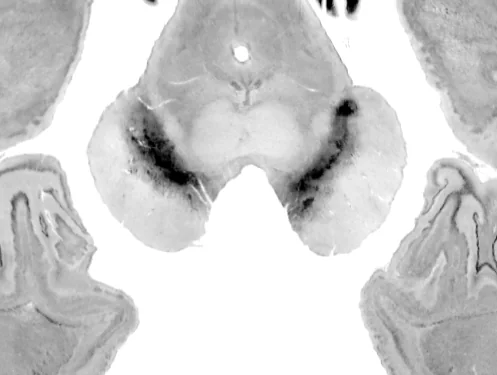
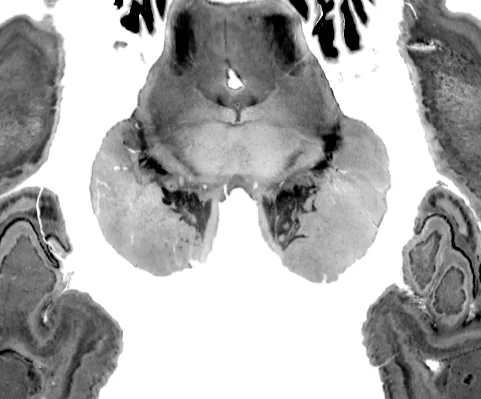
Kesimlar: o'rta miya tekisliklari (O1-O3) meshlarga moslab tuzatildi - nomidagi tuzilmalar endi kesiladi
Nima:
- O1 z -17 -> -19, O2 -9 -> -13, O3 -2 -> -8; lokator chiziqlari shunga mos surildi.
- O'rta miya kesim qatlamlariga Julich qo'shildi: qora moddaning zich va
  to'rsimon qismlari (SNc, SNr) endi kesimda bor va sxema raqamini oladi.
- Uch real kesim (BigBrain) yangi tekisliklarda qayta kesildi.

Nega:
- Balandliklar darslik rasmidan olingan edi, lekin bu atlas geometriyasida
  tektum pastroq yotadi. O2 "yuqori do'nglik va qizil yadro" darajasi deb
  atalgani holda ikkalasini ham kesmas, gipotalamus va talamus orqali o'tardi;
  O3 da 14 bog'langan tuzilmadan 1 tasi kesilardi.
- Yangi qiymatlar o'lchab tanlandi: har z uchun bog'langan tuzilmalarning
  kesim yuzasi sanaldi (O2 da -13: yuqori do'nglik 37, qizil yadro 29,
  medial tizzasimon tana 31 mm2; O3 da -8: orqa komissura 59, epifiz 41 mm2).

Natija (real kesimdagi nishonlar): O1 9 -> 11, O2 4 -> 15, O3 2 -> 12.

Tekshirildi: O2 va O3 Real ko'rinishda suratda, O2 3D kesimi, tsc + build.
Tekshirilmadi: O1 surati (faqat son), Atlas (MNI) ko'rinishi, 3D marker o'rni.
O3 da qizil yadro kesilmaydi - bu geometriyada u pastroqda tugaydi.

diff --git a/src/data/sections/midbrain.ts b/src/data/sections/midbrain.ts
@@ -39,10 +39,10 @@ export const MIDBRAIN: Section[] = [
     region: 'midbrain',
     title: { en: 'Caudal midbrain — inferior colliculus (CN IV)', uz: "Kaudal o'rta miya — pastki do'nglik (IV nerv)" },
     orientation: ORIENT,
-    plane: brainstemPlane(-17),
+    plane: brainstemPlane(-19),
     contour: MIDBRAIN_MESH,
     pin: { side: 'front', dy: -3 },
-    loc: [64, 100, 104, 87],
+    loc: [64, 104, 104, 91],
     w: 560,
     h: 420,
     axes: AXES_BS,
@@ -91,10 +91,10 @@ export const MIDBRAIN: Section[] = [
     region: 'midbrain',
     title: { en: 'Rostral midbrain — superior colliculus & red nucleus (CN III)', uz: "Rostral o'rta miya — yuqori do'nglik va qizil yadro (III nerv)" },
     orientation: ORIENT,
-    plane: brainstemPlane(-9),
+    plane: brainstemPlane(-13),
     contour: MIDBRAIN_MESH,
     pin: { side: 'front', dy: 4 },
-    loc: [66, 86, 104, 73],
+    loc: [66, 94, 104, 81],
     w: 560,
     h: 420,
     axes: AXES_BS,
@@ -143,10 +143,10 @@ export const MIDBRAIN: Section[] = [
     region: 'midbrain',
     title: { en: 'Midbrain–diencephalon junction — pretectum & posterior commissure', uz: "O'rta miya–oraliq miya chegarasi — pretektum va orqa komissura" },
     orientation: ORIENT,
-    plane: brainstemPlane(-2),
+    plane: brainstemPlane(-8),
     contour: /^g-(left|right)-(thalamus|red-nucleus|substantia-nigra|cerebral-crus|lateral-geniculate-body|medial-geniculate-body)$|^g-(pineal-body|posterior-commissure)$/,
     pin: { side: 'front', dy: 10, off: 4 },
-    loc: [70, 76, 104, 64],
+    loc: [70, 88, 104, 76],
     w: 560,
     h: 420,
     axes: AXES_BS,

diff --git a/src/data/sections/plane.ts b/src/data/sections/plane.ts
@@ -3,6 +3,11 @@
  * plane: in this atlas's own geometry the medulla→midbrain axis runs from
  * (y −38, z −55) to (y −24, z −12), i.e. tilted ~18° forward (Meynert's
  * axis). `brainstemPlane(z)` gives the textbook transverse plane at MNI z.
+ *
+ * Pick z from the meshes, not from a textbook figure: in this geometry the
+ * tectum sits low (inferior colliculus best cut at z −19, superior colliculus
+ * with red nucleus at −13, posterior commissure with pineal at −8). The first
+ * midbrain planes (−17 / −9 / −2) missed the very structures they were named for.
  */
 const AXIS = (() => {
   const d = [0, 14, 43]

diff --git a/src/ui/SectionViewer.tsx b/src/ui/SectionViewer.tsx
@@ -36,7 +36,7 @@ import { badgePositions, itemArea, itemShapes, mix, sectionEntries, type Entry }
 export const CUT_LAYERS: Record<Section['region'], LayerId[]> = {
   medulla: ['gross', 'bstem', 'suit'],
   pons: ['gross', 'bstem', 'suit'],
-  midbrain: ['gross', 'bstem'],
+  midbrain: ['gross', 'bstem', 'julich'],
   diencephalon: ['gross', 'julich'],
   hypothalamus: ['gross'],
   'basal-ganglia': ['gross', 'julich'],

diff --git a/docs/HISTORY.md b/docs/HISTORY.md
@@ -750,6 +750,19 @@ teng. Kesimlar alohida tab emas, O'rganish mavzulari ichida qoladi.
 - Tekshirildi: 15 ta real kesimda nishonlar soni (DOM), T1 / B3 / O2 suratda, B3 to'liq ko'ruvchi (tanlov + yon panel),
   tsc + build. Tekshirilmadi: yorug' rejim, telefon kengligi, "Nomlar" yoqilganda nishonning ko'tarilishi suratda ko'rilmadi.
 
+### 5.2c — O'rta miya tekisliklari tuzatildi (2026-11-16)
+
+- Sabab: `brainstemPlane(z)` uchun z darslikdan olingan edi, bu atlas (BodyParts3D) geometriyasida esa tektum pastroq:
+  yuqori do'nglik markazi z −11, qizil yadro −16. O2 (z −9) ularning ustidan o'tib, gipotalamus/talamusni kesardi.
+- O'lchov (z bo'yicha sinov, bog'langan tuzilmalar kesim yuzasi mm²): O1 −17 → `ic` 3; −19 → `ic` 40 (tegmentum 71).
+  O2 −9 → `sc`/`rn`/`mgb` 0; −13 → `sc` 37, `rn` 29, `mgb` 31, `snc` 65. O3 −2 → faqat `pretect` 2; −8 → `pc` 59, `pin` 41, `hab` 1.
+- Tuzatish: O1 −19, O2 −13, O3 −8; lokator chiziqlari (`loc`) 2 birlik/mm bo'yicha surildi; `CUT_LAYERS.midbrain` ga
+  `julich` qo'shildi (SNc/SNr endi kesiladi va raqam oladi). Uch real kesim qayta kesildi.
+- Natija (nishonlar): O1 9 → 11, O2 4 → 15, O3 2 → 12.
+- Tekshirildi: O2 va O3 Real ko'rinishda suratda, O2 3D kesimi Julich bilan/siz taqqoslandi (farq — qo'shimcha konturlar),
+  tsc + build. Tekshirilmadi: O1 surati ko'rilmadi (faqat son), Atlas (MNI) ko'rinishi va 3D marker o'rni suratda ko'rilmadi.
+- O3 da sxemadagi qizil yadro kesilmaydi (bu geometriyada u z −11 dan pastda tugaydi) — sxema va atlas shu yerda farq qiladi.
+
 ## 4. Ma'lum xatolar tarixi (takrorlamaslik uchun)
 
 1. trimesh GLB eksporti normal yozmaydi → meshlar qora (`include_normals`).

diff --git a/CLAUDE.md b/CLAUDE.md
@@ -144,9 +144,12 @@ tanlov kapsulasi bosilganda shaffof linzaga aylanib barmoq ortidan sirg'aladi).
   Yo'q: U1 (hajm u darajaga yetmaydi), K3 va Mc (oyna >110 mm — bu oyna xatosi, alohida tuzatish kerak), T2 (kesim emas).
   **Sxema raqamlari ✅ (2026-11-16):** `SectionViewer` `marks` (sxema `part` → atlas qismi) → `AtlasSliceView` `placeMarks()`;
   bitta atlas sohasi bir necha sxema tuzilmasiga to'g'ri kelsa nishon hammasini yozadi ("4·22", "12·13 +4").
-  QOLDI: sxema↔real aralashtirish; MRI varianti; K3/Mc oynasi; **O2/O3 tekisligi sxemaga mos emas** (O2 da `sc`/`rn`
-  kesilmaydi, O3 da 14 bog'lanishdan 1 tasi); `snc`/`snr` Julich'ga bog'langan, o'rta miya kesimida Julich yo'q;
-  miya ustunida nishon kam (U2 4, O1 9) — `bstem` qatlamida 24 konsept, bu atlas chegarasi.
+  **O'rta miya tekisliklari ✅ (2026-11-16):** O1 z −19, O2 −13, O3 −8 (avval −17/−9/−2 — nomidagi tuzilmalarni kesmasdi);
+  `CUT_LAYERS.midbrain` ga Julich qo'shildi (SNc/SNr). QOIDA: `brainstemPlane(z)` uchun z meshlardan o'lchanadi
+  (z bo'yicha sinab, bog'langan tuzilmalar kesim yuzasini sanang), darslik rasmidan emas. Tekislik o'zgarsa:
+  `export-section-frames.mjs` → `real_slices.py` (3 s) qayta ishga tushiriladi.
+  QOLDI: sxema↔real aralashtirish; MRI varianti; K3/Mc oynasi; miya ustunida nishon kam (U2 4) — `bstem`
+  qatlamida 24 konsept, bu atlas chegarasi.
   `pipeline/.venv` qayta yaratildi (numpy, nibabel, scipy, pillow) — eski muhit diskda yo'q edi.
 
 Keyin (foydalanuvchi tanlaydi): mavzu viktorinasi (kesim+dars birlashgan), BG-2 yo'llar sxemasi,

diff --git a/PLAN.md b/PLAN.md
@@ -191,7 +191,7 @@ Amalga oshirish yo'li (taklif):
 Bajarildi: BigBrain 100 mkm dan 17 daraja uchun real kesim, ustida atlas chegaralari shtrix chiziq bilan
 (tafsilot — CLAUDE.md "Joriy holat"). Litsenziya o'qildi: CC BY-NC-SA 4.0 (`License.txt`), ND emas.
 Sxema raqamlari ✅ 2026-11-16 (nishonlar real kesim ustida; tafsilot HISTORY 5.2b).
-Quyidagi matn — dastlabki reja; undan qolganlari: aralashtirish slayderi, MRI varianti, O2/O3 tekisligi.
+Quyidagi matn — dastlabki reja; undan qolganlari: aralashtirish slayderi, MRI varianti. O1–O3 tekisligi ✅ 2026-11-16 (HISTORY 5.2c).
 
 
 Hozir: Sxema · Mielin · Nissl · Atlas (MNI). Qo'shiladi: **Real** — haqiqiy miya kesimi, ustida har tuzilmaning
